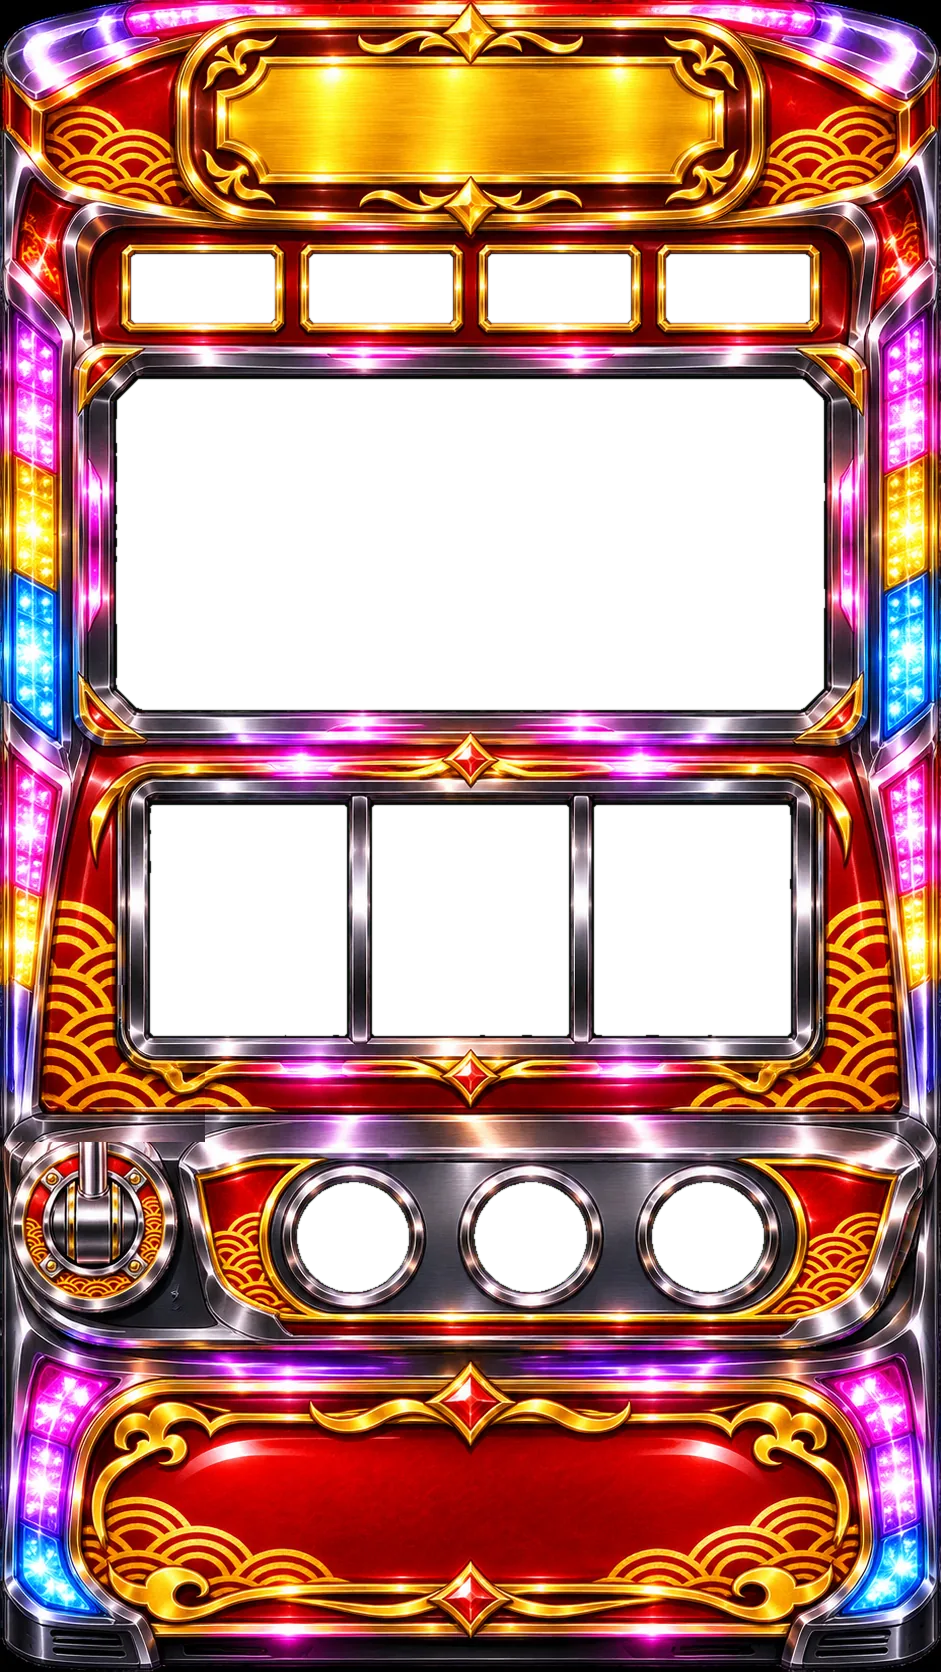
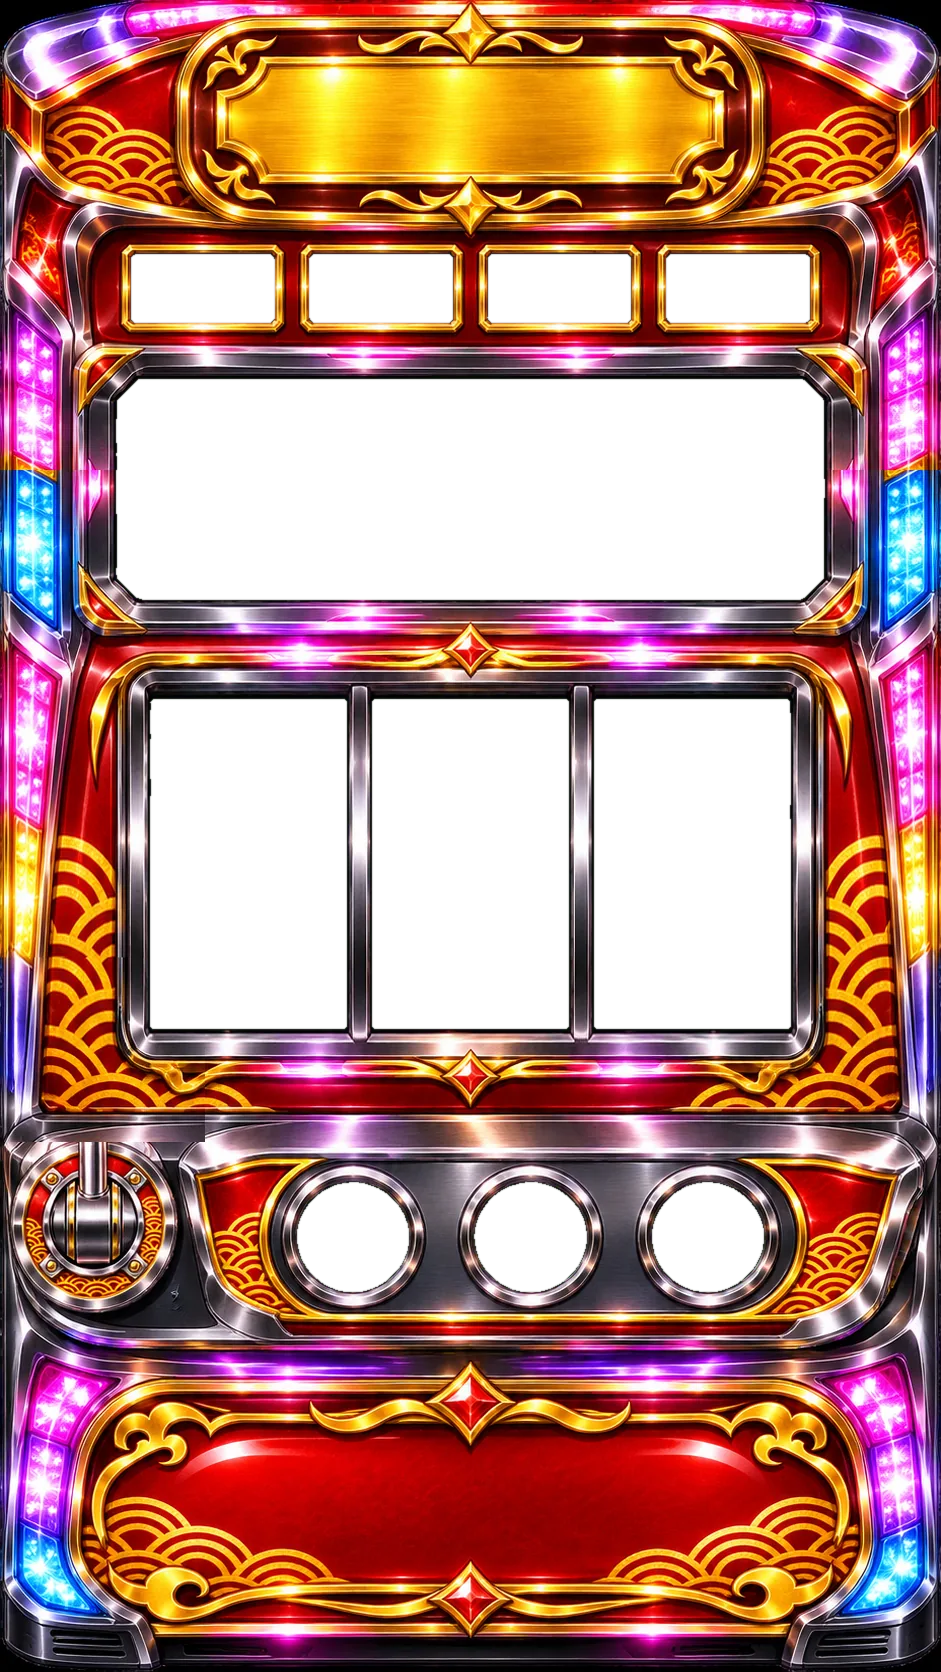
リールを大きくし、持ちメダル・収支を台の下の板に出し、レバーを叩いた動きにする (#28)
* リールを大きくし、持ちメダル・収支を台の下の板に出し、レバーを叩いた動きにする

Claude-Session: https://claude.ai/code/session_016fk9NuHm5XbXuuYNEzQTzr

* 仕様と記録に、大きくしたリールと下の板の表示を書く

Claude-Session: https://claude.ai/code/session_016fk9NuHm5XbXuuYNEzQTzr

* レバーの叩く動きが画面の作り直しで消えないようにし、扉・3択を下の板に重ねない

Claude-Session: https://claude.ai/code/session_016fk9NuHm5XbXuuYNEzQTzr

---------

Changed region(s): [[0.0, 0.2799, 1.0, 0.622]]

diff --git a/src/ui/app.ts b/src/ui/app.ts
@@ -473,6 +473,8 @@ function cue(){
 // 「現在」（counterHTML）は最後の当たりからの回転数で、ボーナス・ラッシュに入ると0に戻り、ボーナス中は数えない
 function statsHTML(){const b=P.big+(P.reg||0);return `<div class="stats"><div><span>総ゲーム数</span><b>${P.g}</b></div><div class="bb"><span>BIG</span><b>${P.big}</b></div><div class="rb"><span>REG</span><b>${P.reg||0}</b></div><div><span>合成確率</span><b>${b?'1/'+Math.round((P.ng||0)/b):'—'}</b></div></div>`}
 function counterHTML(){const out=P.medals*P.rate,net=out-P.inv;return `<div class="counter"><div>時刻<b>${clock(P.g)}</b></div><div>現在<b>${P.since}G</b></div><div>持ちメダル<b>${P.medals}</b></div><div>収支<b class="${net>=0?'pos':'neg'}">${net>=0?'+':''}${yen(net)}</b></div></div>`}
+// 台の下の板：持ちメダルと収支（打ちながら見えるように）
+function meterHTML2(){const net=P.medals*P.rate-P.inv;return `<div class="cab-meter" style="left:${CAB_BOXES.meter.x}%;top:${CAB_BOXES.meter.y}%;width:${CAB_BOXES.meter.w}%;height:${CAB_BOXES.meter.h}%"><div><span>持ちメダル</span><b>${P.medals}</b></div><div><span>収支</span><b class="${net>=0?'pos':'neg'}">${net>=0?'+':''}${yen(net)}</b></div></div>`}
 function renderPlay(){
   // 打っている間の作り直し（オートの終わりなど）では、開いていた引き出しをそのままにする。オート中は台を見せる
   const keepOpen=drawerOpen()&&!P.autoRun;
@@ -487,6 +489,7 @@ function renderPlay(){
     <div class="cab-stats" style="${pos(CAB_BOXES.stats)};--sgap:${STATS_GAP}cqw">${statsHTML()}</div>
     <div class="lcd lcd-${P.m.kind}" style="${pos(CAB_BOXES.lcd)};--bn:url(${import.meta.env.BASE_URL}banners/${P.m.kind}.webp)">${lcdMsgHTML()}<div class="lamp ${cl}${c?'':' empty'}" id="lamp"><span>${c||'&nbsp;'}</span></div></div>
     <div class="glass" id="glass" data-fit data-gap="${REELS_GAP/CAB_BOXES.reels.w}" style="${pos(CAB_BOXES.reels)}"><canvas id="reels" aria-label="リール（5ライン：上段・中段・下段・斜め2本）" role="img"></canvas></div>
+    ${meterHTML2()}
     ${(S.hun<25||S.hp<25)?`<p class="cab-warn" style="left:${CAB_BOXES.reels.x}%;top:${CAB_BOXES.reels.y+CAB_BOXES.reels.h+.3}%;width:${CAB_BOXES.reels.w}%">${S.hun<25?'お腹が空いて、リールが速く見える。':''}${S.hp<25?'体調が悪く、手が震えて狙った図柄を2コマまでしか引き込めない。':''}</p>`:''}
     ${P.mode==='door'||P.mode==='cont'?`<div class="cab-over" style="${pos(CAB_BOXES.over)}">${P.mode==='door'?doorHTML():contHTML()}</div>`:`${leverHTML()}<div class="stops" id="stops">${CAB_STOPS.map(stop).join('')}</div>`}
   </div></div>
@@ -507,8 +510,10 @@ function renderPlay(){
   bindCabinet();sync();const st=$('#stripT');if(st){drawStripTable(st);st.style.width=(st.width/2)+'px'}
 }
 // 台に対して垂直に刺さったレバー（正面から見ると受けの中に赤い玉）。叩くと少し下へ動いて戻る
-function leverHTML(){const w=CAB_LEVER.d*LEVER_HIT;return `<button class="lever" id="lever" type="button" aria-label="レバー" style="left:${CAB_LEVER.x-w/2}%;top:${CAB_LEVER.y-w*CAB_ASPECT/2}%;width:${w}%;aspect-ratio:1;--dip:${LEVER_DIP}%;--lv-ms:${LEVER_MS}ms;--lv-d:${(1/LEVER_HIT*100).toFixed(1)}%"><i class="lv-socket"></i><i class="lv-ball"></i></button>`}
-function leverHit(){const lv=$('#lever');if(!lv||lv.disabled)return;lv.classList.remove('hit');void lv.offsetWidth;lv.classList.add('hit')}
+function leverAnim(){const el=P.leverT?performance.now()-P.leverT:1e9;return el<LEVER_MS?`--lv-del:-${Math.round(el)}ms;`:''}
+function leverHTML(){const w=CAB_LEVER.d*LEVER_HIT;return `<button class="lever${leverAnim()?' hit':''}" id="lever" type="button" aria-label="レバー" style="${leverAnim()}left:${CAB_LEVER.x-w/2}%;top:${CAB_LEVER.y-w*CAB_ASPECT/2}%;width:${w}%;aspect-ratio:1;--dip:${LEVER_DIP}%;--lv-ms:${LEVER_MS}ms;--lv-d:${(1/LEVER_HIT*100).toFixed(1)}%"><i class="lv-socket"></i><i class="lv-ball"></i></button>`}
+// 叩いた直後に画面を作り直しても動きが途切れないよう、叩いた時刻を覚えて leverHTML で続きから動かす
+function leverHit(){P.leverT=performance.now()}
 function bindCabinet(){
   const cvNew=$('#reels');if(cvNew){cv=cvNew;rc=cv.getContext('2d');layout()}
   const lv=$('#lever');if(lv){lv.addEventListener('pointerdown',e=>{e.preventDefault();lever()});lv.addEventListener('keydown',e=>{if(e.key==='Enter'||e.key===' '){e.preventDefault();lever()}})}
@@ -675,7 +680,7 @@ async function autoPlay(games){
     else if(f==='CH'){if(Math.random()<.67){gain(k==='fuku'?PAY.CHf:PAY.CHo);if(Math.random()<P.m.dup){P.mode='align';P.bonus=P.m.reg&&Math.random()<.4?'REG':'BIG';say('チェリー重複','ボーナス確定！','hot');SND.fan();break}}}
     else if(f==='WM'&&k==='fuku'){if(Math.random()<.18)gain(PAY.WM)}
     randomStops();
-    $('.counter').outerHTML=counterHTML();const st2=$('.stats');if(st2)st2.outerHTML=statsHTML();status();
+    $('.counter').outerHTML=counterHTML();const cm=$('.cab-meter');if(cm)cm.outerHTML=meterHTML2();const st2=$('.stats');if(st2)st2.outerHTML=statsHTML();status();
     await new Promise(z=>setTimeout(z,110));
     if(!P||!P.autoRun)return; // 途中で「やめる」を押した
     if(S.hp<=0){P.autoRun=false;return collapse()}

diff --git a/src/gekiga.css b/src/gekiga.css
@@ -227,9 +227,12 @@ body:has(.cab){
 .stage .lever .lv-ball{position:absolute;left:50%;top:50%;width:calc(var(--lv-d) * .62);aspect-ratio:1;border-radius:50%;transform:translate(-50%,-38%);
   background:radial-gradient(circle at 36% 28%,#fff 0 7%,#ffb0ba 12%,#ff3a4e 30%,#c00a1e 62%,#5a0410 100%);box-shadow:0 1.2cqw 1.6cqw rgba(0,0,0,.7),0 0 0 .25cqw rgba(0,0,0,.35)}
 .stage .lever .lv-ball::after{content:"";position:absolute;left:50%;top:100%;width:28%;height:22%;transform:translate(-50%,-60%);border-radius:0 0 50% 50%;background:linear-gradient(90deg,#6b7078,#eef1f4 45%,#7d838c);z-index:-1}
-.stage .lever.hit .lv-ball{animation:lvHit var(--lv-ms,260ms) cubic-bezier(.3,1.6,.5,1)}
-@keyframes lvHit{0%{transform:translate(-50%,-38%)}30%{transform:translate(-50%,calc(-38% + var(--dip,14%) * 3)) scale(.94,.9)}100%{transform:translate(-50%,-38%)}}
-@media (prefers-reduced-motion:reduce){.stage .lever.hit .lv-ball{animation:none}}
+.stage .lever.hit .lv-ball{animation:lvHit var(--lv-ms,340ms) ease-out var(--lv-del,0ms) both}
+/* 叩いた感じ：素早く沈み、反動で少し跳ね上がって戻る */
+@keyframes lvHit{0%{transform:translate(-50%,-38%)}18%{transform:translate(-50%,calc(-38% + var(--dip,16%) * 3)) scale(.93,.86)}45%{transform:translate(-50%,calc(-38% - var(--dip,16%) * .6)) scale(1.02,1.04)}70%{transform:translate(-50%,calc(-38% + var(--dip,16%) * .3))}100%{transform:translate(-50%,-38%)}}
+.stage .lever.hit .lv-socket{animation:lvShake var(--lv-ms,340ms) ease-out var(--lv-del,0ms) both}
+@keyframes lvShake{0%{transform:translate(-50%,-50%)}18%{transform:translate(-50%,-47%) scale(.98)}45%{transform:translate(-50%,-51%)}100%{transform:translate(-50%,-50%)}}
+@media (prefers-reduced-motion:reduce){.stage .lever.hit .lv-ball,.stage .lever.hit .lv-socket{animation:none}}
 .stage .lever:disabled .lv-ball{filter:brightness(.75)}
 .stage .stops{display:contents}
 .stage .stop{position:absolute;z-index:4;min-height:0;padding:0;border:0;border-radius:50%;box-shadow:none;cursor:pointer;
@@ -238,12 +241,18 @@ body:has(.cab){
 .stage .stop:active:not(:disabled){transform:translateY(.8cqw)}
 .stage .stop .nv{top:4%;font-size:3.4cqw}
 .stage .cab:not(.art) .stops::before{content:none}
+/* 下の赤い板の持ちメダルと収支：黒い窓に光る数字 */
+.stage .cab-meter{z-index:4;display:grid;grid-template-columns:1fr 1.3fr;gap:3cqw;padding:0 2cqw;align-items:center}
+.stage .cab-meter div{display:flex;flex-direction:column;align-items:center;justify-content:center;height:78%;border-radius:1.4cqw;background:#050306;box-shadow:0 0 0 .5cqw #d4a032,0 0 0 .9cqw #3a0407,inset 0 0 8px rgba(0,0,0,.9)}
+.stage .cab-meter span{font-size:2.6cqw;line-height:1.1;color:#f3e6c8}
+.stage .cab-meter b{font-family:var(--dot);font-size:5.4cqw;line-height:1.1;color:#ffd23c;text-shadow:0 0 6px rgba(255,210,60,.8)}
+.stage .cab-meter b.pos{color:#5dff8a;text-shadow:0 0 6px rgba(80,255,130,.7)}.stage .cab-meter b.neg{color:#ff5b4a;text-shadow:0 0 6px rgba(255,80,60,.8)}
 /* 体調・空腹の知らせ（引き込みに効くので台の上にも出す） */
 .stage .cab-warn{z-index:4;margin:0;padding:.4cqw 1cqw;font-size:max(10px,2.8cqw);line-height:1.3;text-align:center;color:#fff1e0;background:rgba(120,0,10,.85);border-radius:1cqw}
 /* 縦画面向けなので、横向きで台が小さくなるときは縦にするよう知らせる */
 @media (orientation:landscape) and (max-height:520px){.stage::after{content:"スマホを縦にして遊んでください";position:fixed;left:50%;bottom:8px;transform:translateX(-50%);z-index:5;padding:4px 12px;border-radius:999px;font-size:12px;color:#f3e6c8;background:rgba(0,0,0,.75)}}
 /* 扉・3択 */
-.stage .cab-over{z-index:4;display:flex;flex-direction:column;justify-content:center;gap:1.5cqw;padding:2cqw;border-radius:2cqw;background:rgba(10,3,4,.82);box-shadow:0 0 0 .6cqw #b8862a}
+.stage .cab-over{z-index:4;overflow:auto;display:flex;flex-direction:column;justify-content:center;gap:1.5cqw;padding:2cqw;border-radius:2cqw;background:rgba(10,3,4,.82);box-shadow:0 0 0 .6cqw #b8862a}
 .stage .cab-over .lead{font-size:4.4cqw!important;margin:0;color:#f3e6c8}
 .stage .cab-over .door{font-size:5cqw;aspect-ratio:auto;padding:2cqw 0}
 .stage .cab-over .sub{font-size:3.2cqw;margin:0;color:#f3d7a8}

diff --git a/src/data/cabinet.ts b/src/data/cabinet.ts
@@ -1,5 +1,6 @@
 // 打つ画面の台（仕様書 9.9）。台を画面いっぱいに出し、台の絵の上に液晶・リール・カウンター・ボタンを重ねる。
-// 位置と大きさは台に対する %（x・y は左上、w・h は幅・高さ）。値は台の絵の緑の窓から scripts/cut-cabinet.py で読み取ったもの
+// 位置と大きさは台に対する %（x・y は左上、w・h は幅・高さ）。値は台の絵の緑の窓から scripts/cut-cabinet.py で読み取ったもの。
+// リールを大きく見せるため、台の絵は液晶の窓の真ん中を詰め、その分リールの帯を縦に伸ばしてある
 
 export interface Box { x: number; y: number; w: number; h: number }
 
@@ -8,16 +9,18 @@ export const CAB_ASPECT = 941 / 1672;
 /** 台全体の絵（public/cabinet/ のファイル名、窓は透明に切り抜いたもの）。空なら部品の絵と CSS で描く */
 export const CAB_ART = 'cabinet.webp';
 
-export const CAB_BOXES: { name: Box; stats: Box; lcd: Box; reels: Box; over: Box } = {
+export const CAB_BOXES: { name: Box; stats: Box; lcd: Box; reels: Box; meter: Box; over: Box } = {
   /** 上の金の名札（機種名を重ねる） */
   name: { x: 24, y: 2.7, w: 52, h: 6.3 },
   /** データカウンターの4つの窓をまとめた範囲 */
   stats: { x: 14.1, y: 15.3, w: 71.8, h: 3.9 },
-  lcd: { x: 12.5, y: 22.8, w: 74.9, h: 19.6 },
+  lcd: { x: 12.5, y: 22.8, w: 74.9, h: 13.0 },
   /** リールの3つの窓をまとめた範囲 */
-  reels: { x: 15.9, y: 48.3, w: 68.2, h: 13.6 },
+  reels: { x: 15.9, y: 41.9, w: 68.2, h: 19.5 },
+  /** 下の赤い板（持ちメダルと収支を出す） */
+  meter: { x: 17, y: 85.6, w: 66, h: 7.4 },
   /** 扉・3択を出す場所（レバーとストップボタンの代わり） */
-  over: { x: 4, y: 64, w: 92, h: 32 },
+  over: { x: 4, y: 63.5, w: 92, h: 21.5 },
 };
 /** カウンターの窓どうし・リールの窓どうしのすき間（台の幅に対する %） */
 export const STATS_GAP = 4.1;
@@ -35,5 +38,5 @@ export const CAB_LEVER = { x: 10.1, y: 72.7, d: 14 };
 /** レバーの押せる範囲（受けの直径に対する倍率） */
 export const LEVER_HIT = 1.45;
 /** レバーを叩いたときに下へ動く量（受けの直径に対する %）と、戻るまでの時間（ミリ秒） */
-export const LEVER_DIP = 14;
-export const LEVER_MS = 260;
+export const LEVER_DIP = 16;
+export const LEVER_MS = 340;

diff --git a/docs/game-spec.md b/docs/game-spec.md
@@ -316,8 +316,8 @@
 - 家具は劇画風の絵（`public/furniture/<id>.webp`、背景は透過）。置き場所に合わせた向きで描き（左は右の側面、右は左の側面が見える。ソファは後ろ姿）、足元に床の影を付ける。持ち物の一覧にも同じ絵を小さく出す。主人公も劇画タッチの立ち絵（`public/rooms/hero.webp`）で、家具と一緒に奥から順に並べる（手前のソファやベッドの後ろに立つ）。置き場所と大きさの数値は `src/data/room.ts`。
 
 ### 9.9 打っている画面の台と引き出し
-- 台を画面いっぱいに出す（縦横比は台の絵に合わせる（941×1672、ほぼ 9:16）。画面に収まる一番大きな大きさで真ん中に置く）。台の上にあるのは、機種名・データカウンター（総ゲーム数・BIG・REG・合成確率）・液晶・リール・レバー・ストップボタンだけ。ボーナス中の扉・3択は、レバーとストップボタンの場所に出す。
-- 所持金・ゲージ・ホール名・時刻・現在・持ちメダル・収支・オート（10G・100G）・やめる・音の切り替え・配当表・リール配列表は、右から引き出すメニューに入れる（ユーザーの希望）。右端のつまみを押すか、右端から左へ指を動かすと開き、背景を押す・右へ指を動かす・Esc で閉じる。オート中はつまみが金色になり「オート中」と出す（止めるボタンが引き出しにあるため）。オートを始めると引き出しは閉じる。開いている間は台を操作できない。体調不良・空腹の知らせはリールの下にも出す。
+- 台を画面いっぱいに出す（縦横比は台の絵に合わせる（941×1672、ほぼ 9:16）。画面に収まる一番大きな大きさで真ん中に置く）。台の上にあるのは、機種名・データカウンター（総ゲーム数・BIG・REG・合成確率）・液晶・リール・レバー・ストップボタンと、下の板の持ちメダル・収支（ユーザーの希望。打ちながら見えるように）。ボーナス中の扉・3択は、レバーとストップボタンの場所に出す。
+- 所持金・ゲージ・ホール名・時刻・現在・持ちメダル・収支（下の板と同じもの）・オート（10G・100G）・やめる・音の切り替え・配当表・リール配列表は、右から引き出すメニューに入れる（ユーザーの希望）。右端のつまみを押すか、右端から左へ指を動かすと開き、背景を押す・右へ指を動かす・Esc で閉じる。オート中はつまみが金色になり「オート中」と出す（止めるボタンが引き出しにあるため）。オートを始めると引き出しは閉じる。開いている間は台を操作できない。体調不良・空腹の知らせはリールの下にも出す。
 - 台は、ユーザーが作った台全体の絵（窓を緑一色で描いたもの）を `scripts/cut-cabinet.py` で切り抜いて使う（`public/cabinet/cabinet.webp`）。カウンター4つ・液晶・リール3つ・ストップボタン3つの窓の位置は `src/data/cabinet.ts`。リールは窓のすき間に合わせて並べる。機種名は金の名札に赤黒い彫り文字で重ねる。
 - レバーは日本のスロットと同じく台に対して垂直に刺さっている形（正面から見ると、クロームの受けの中に赤い玉）。叩くと玉が少し下へ動いて戻り、リールが回り出す。絵に描かれていた斜めのレバーは消して、受けの上にこちらで描く。
 - 引き出しは指について動き、離した位置と速さで開くか閉じるかを決める。つまみは引き出しの左の縁に付いて一緒に動き、開いているときは「▶ 閉じる」と出す。

diff --git a/docs/decisions.md b/docs/decisions.md
@@ -178,3 +178,9 @@
 - 絵のレバーは斜めの棒で動かせず不自然（ユーザーの指摘）。日本のスロットのように台に対して垂直に刺さったレバーにし、叩くと少し下へ動いて戻るようにした。絵のレバーは、反対側（右）の同じ高さの模様を左右反転して貼り、消した。根元の丸い受けは残して、その上に玉を描く。
 - 引き出しは指について動くようにし（離した位置と速さで開閉を決める）、開いているときはつまみに「▶ 閉じる」と出して、右へ戻せることが分かるようにした（ユーザーの依頼）。
 - リールの窓は絵の都合で前より背が低く、図柄は少し小さく見える。気になるときは、リールの窓を縦に大きくした絵に作り直すとよい。
+
+## 2026-11-17 リールを大きくし、持ちメダル・収支を台の下の板に出す
+
+- リールが見にくい（ユーザーの指摘）。台の絵の液晶の窓の真ん中を詰め（窓の高さ 19.6%→13.0%）、その分リールの帯を縦に伸ばした（13.6%→19.5%）。液晶は機種のバナーの絵（3:1）に近い形になった。
+- 持ちメダルと収支を、台の下の赤い板に光る数字で出す（ユーザーの希望）。引き出しにも残す。
+- レバーは叩いた感じが出るよう、素早く沈んで反動で跳ね上がって戻る動きにした。ユーザーがレバーの絵を作ったら差し替える。
